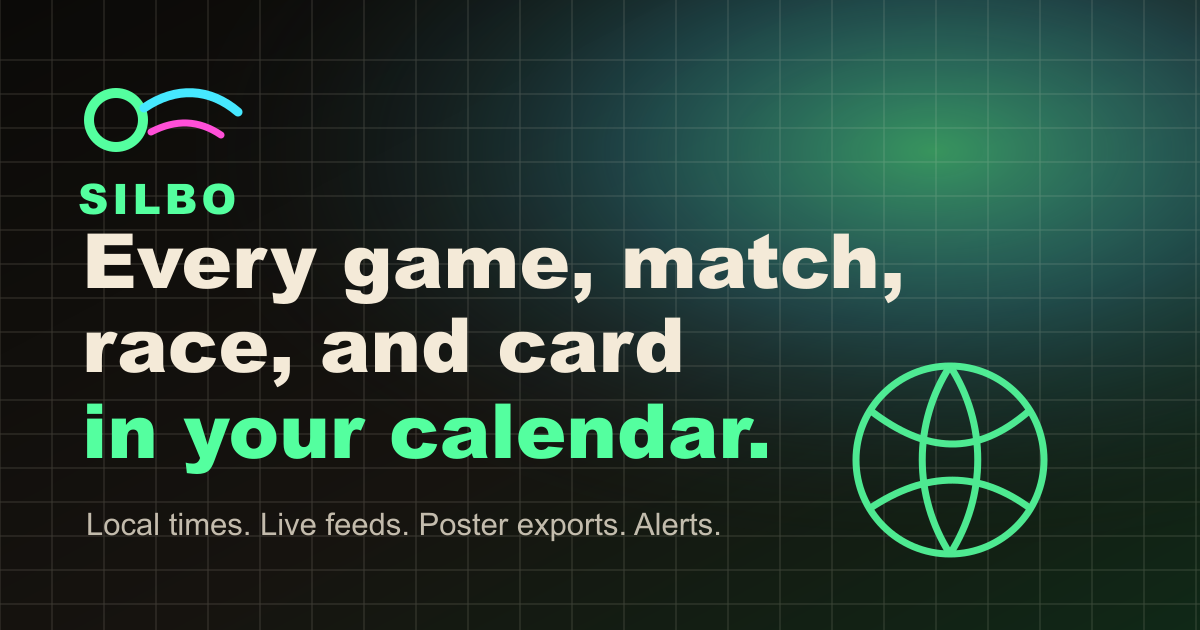
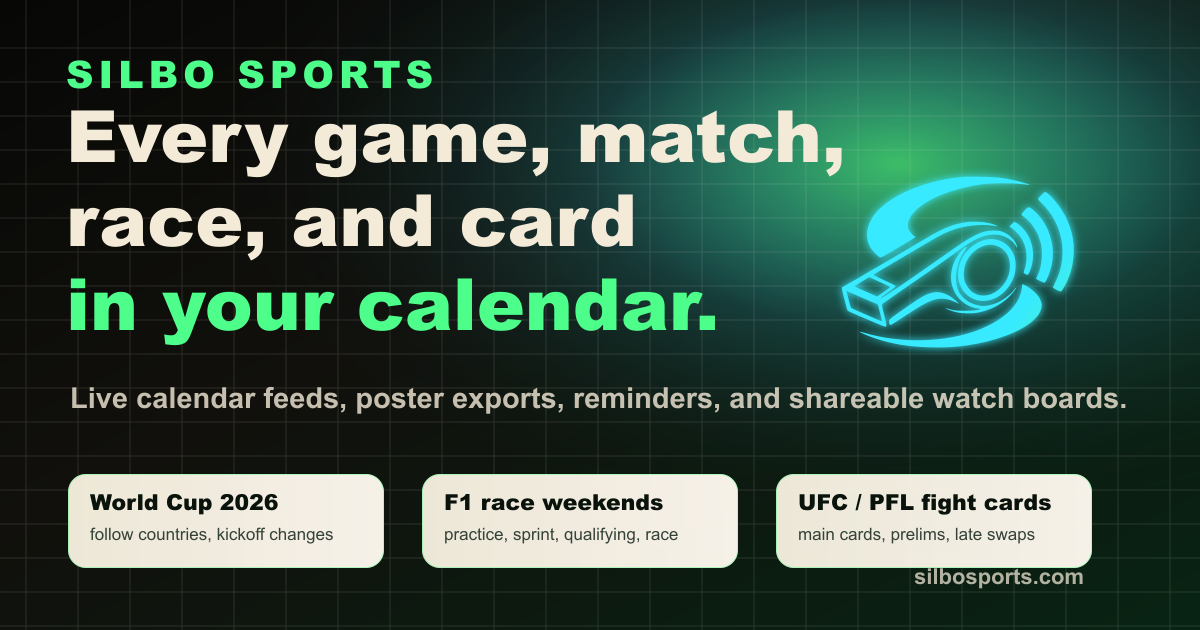
Add Silbo social assets and competitive strategy overlay

diff --git a/index.html b/index.html
@@ -3,9 +3,10 @@
   <head>
     <meta charset="UTF-8" />
     <link rel="icon" type="image/svg+xml" href="/favicon.svg" />
+    <link rel="apple-touch-icon" href="/apple-touch-icon.png" />
     <meta name="viewport" content="width=device-width, initial-scale=1.0" />
     <meta name="theme-color" content="#0b0a08" />
-    <title>Silbo Sports — every game, in your calendar</title>
+    <title>Silbo Sports - every game, in your calendar</title>
     <meta
       name="description"
       content="Follow your teams, leagues, drivers, and fighters across every sport. Silbo Sports turns scattered fixtures into one local-time schedule you can sync, export, and share."
@@ -15,19 +16,23 @@
     <meta property="og:type" content="website" />
     <meta property="og:site_name" content="Silbo Sports" />
     <meta property="og:url" content="https://silbosports.com/" />
-    <meta property="og:title" content="Silbo Sports — every game, in your calendar" />
+    <meta property="og:title" content="Silbo Sports - every game, in your calendar" />
     <meta
       property="og:description"
       content="One schedule for every sport you follow. Local times, live calendar feeds, poster exports, and alerts."
     />
     <meta property="og:image" content="https://silbosports.com/og-cover.png" />
+    <meta property="og:image:width" content="1200" />
+    <meta property="og:image:height" content="630" />
+    <meta property="og:image:alt" content="Silbo Sports schedule preview with the neon whistle mark." />
     <meta name="twitter:card" content="summary_large_image" />
-    <meta name="twitter:title" content="Silbo Sports — every game, in your calendar" />
+    <meta name="twitter:title" content="Silbo Sports - every game, in your calendar" />
     <meta
       name="twitter:description"
       content="One schedule for every sport you follow. Local times, live calendar feeds, poster exports, and alerts."
     />
     <meta name="twitter:image" content="https://silbosports.com/og-cover.png" />
+    <meta name="twitter:image:alt" content="Silbo Sports schedule preview with the neon whistle mark." />
     <!-- Structured data: brand + site search. Per-page SportsEvent JSON-LD is injected at
          runtime on event pages (see src/lib/seo.ts). -->
     <script type="application/ld+json">

diff --git a/docs/master-plan-4-backend-and-glue.md b/docs/master-plan-4-backend-and-glue.md
@@ -360,3 +360,158 @@ Schedule should be the post-selection home base: review saved matches, choose ca
 download static files, print/share, and manage reminders/settings from one surface.
 
 Later, make the schedule hub smarter with DB-backed saved schedule summaries and reminder state.
+
+---
+
+## 11. Competitive Strategy Overlay (June 19, 2026)
+
+Reviewed source pack:
+
+- `Silbo_Competitive_Product_Technology_Strategy_2026.docx` / `.pdf`
+- `Silbo_Competitive_Strategy_Decision_Workbook_2026.xlsx`
+- `Silbo_Competitive_Analysis_Data.json`
+- `Silbo_Competitive_Strategy_README.txt`
+
+Strategic answer in one sentence: **do not compete as another fixed directory of team calendar
+feeds; win as the neutral sports schedule compiler.** Silbo should let a fan, family, organizer,
+publisher, or small rights holder express the living sports schedule they actually need, then sync,
+export, print, share, embed, or alert on it without betting, fantasy, or stats-app clutter.
+
+### 11.1 Competitive Position
+
+The reviewed market splits into five businesses:
+
+1. **Calendar-feed catalogues** (`Sync2Cal`, `SportsCal`, `Fixtur.es`): win with search, breadth,
+   one-tap subscription, and trust that events stay updated.
+2. **Static export utilities** (`Your Sports Calendar`, `Matchesio`, open ICS repos): win with no
+   login, CSV/PDF/ICS, dashboard/print use, and immediate file delivery.
+3. **League/tournament schedulers** (`LeagueLobster`, AI schedulers): win with deterministic
+   pairing/venue constraints and organizer switching costs.
+4. **Team/club operating systems** (`TeamSnap`, `SportsEngine`, `LeagueApps`): win through
+   organization-mandated adoption, registration, payments, roster, chat, and RSVP bundles.
+5. **Calendar-marketing infrastructure** (`ECAL`, `AddEvent`, `Teamup`): win with branded sync
+   channels, analytics, localization, APIs, enterprise reliability, and permissions.
+
+Silbo's wedge is the intersection none of them fully owns: professional + local/custom schedules,
+multi-sport follows, live feeds, static exports, uncertainty-aware event modeling, multilingual UI,
+and future schedule rules/recipes from one normalized event model.
+
+### 11.2 Immediate Foundation Gates
+
+Treat these as release gates before scaling acquisition:
+
+- **Feed correctness and first-party delivery:** fix placeholder/TBD feed semantics for truly null
+  `starts_at`, implement `include_broadcasts`, proxy calendar URLs through
+  `https://silbosports.com/cal/...`, and set one canonical `APP_URL` everywhere.
+- **Feed health and key management:** store last successful feed access, provider freshness,
+  generation status, stale warnings, revoke/rotate controls, and a client-specific polling
+  expectation note. Keep raw feed tokens unrecoverable.
+- **Product analytics:** instrument anonymous and signed-in funnels before paid acquisition:
+  first follow, first preview, first export, feed creation, feed activation, alert opt-in,
+  collection creation, import success/failure, and week-4 retained scheduler.
+- **Provider independence:** keep TheSportsDB as low-cost breadth/artwork/fallback, but introduce a
+  provider adapter + field-level provenance layer and a second provider shadow scorecard before
+  promising premium coverage.
+- **Rights and allowed-use registry:** track which providers/leagues allow public pages, feeds,
+  exports, embeds, screenshots, affiliate links, and API redistribution.
+- **Architecture/documentation hygiene:** archive superseded naming/status docs and generate status
+  docs from source where possible so product claims do not drift.
+
+### 11.3 Product Objectives Added By The Competitive Review
+
+Highest-leverage objectives to merge into the existing backlog:
+
+- **No-account live preview + quick export:** show enough value before signup, then convert after a
+  useful export/feed exists.
+- **Named Silbo Collections:** turn raw follows into saved collections like "Canada + Brazil World
+  Cup nights", "F1 weekends", or "family hockey + Leafs". Collections should power feeds, alerts,
+  exports, share links, and future rules.
+- **One export schema, many formats:** add CSV, JSON, XLSX, true PDF/print, and saved export
+  recipes beside ICS, PNG, and Notes. Export recipes should remember fields, language, layout,
+  accessibility/quiet mode, and branding.
+- **Schedule compiler rules:** build toward union/intersection/exclusion rules, time windows,
+  round/session filters, "only finals", "no events after 11pm", and "winner of this slot" logic.
+- **Change intelligence:** alert on meaningful diffs, not just raw updates: time moved, venue
+  changed, opponent resolved, broadcast added/removed, status postponed/cancelled, or confidence
+  changed.
+- **Import workflows:** ICS/CSV first, then assisted image/PDF extraction. Always include mapping,
+  preview, validation, and reversible commits.
+- **Custom league normalization:** keep the local-first ease, but normalize active custom teams,
+  events, roles, audit history, constraints, generators, and publish state instead of depending on
+  JSON payloads for long-lived operational data.
+- **Direct calendar connectors:** after feed reliability, offer optional least-privilege Google and
+  Outlook calendar creation while keeping portable ICS as the universal fallback.
+- **Embeds / white-label publish widgets:** after rights controls, pilot a small "Silbo Sync" widget
+  for clubs, publishers, and community organizers.
+- **Public request + correction queue:** turn missing coverage and corrections into demand signals,
+  with evidence links, review status, and accountability.
+
+### 11.4 Data And Hydration Implications
+
+The competitive review changes the data plan from "more leagues" to **measured source quality**:
+
+- Add field-level provenance for important event fields (`starts_at`, venue, competitors, status,
+  broadcast, round/session, artwork): source provider, source id, last checked, confidence,
+  allowed-use class, and discrepancy state.
+- Keep `events.source_confidence` for simple display, but add a lower-level provenance/discrepancy
+  table before the second provider becomes authoritative.
+- Use **API-Sports** as the most likely second-provider shadow candidate across high-demand sports;
+  use **Sportmonks** selectively for premium football depth; reserve **Sportradar** for future
+  official/enterprise coverage when revenue justifies procurement.
+- Backfill `broadcasts`/watch links regionally before leaning on affiliate revenue. The useful unit
+  is "viewer in region X with service Y", not a generic TV string.
+- Add data quality SLOs and a public/internal coverage status view: freshness, stale minutes,
+  target failures, confidence distribution, correction turnaround, and provider disagreement rate.
+- Continue the World Cup dedupe objective: retire or bridge the `worldcup_json` planner path so
+  2026 soccer runs from the same DB-backed/provider-provenance model as the rest of Silbo.
+
+### 11.5 Monetization Direction
+
+Principle: charge for ongoing coordination, reliability, and workflow depth; keep basic fixture
+access portable and useful.
+
+- **Free:** browse, basic follows, one live feed, limited collections, basic ICS/PNG/text, ten-event
+  preview, and small community-league limits.
+- **Silbo Plus:** test US$24-36/year for unlimited collections/feeds, CSV/JSON/XLSX/PDF, advanced
+  rules, change intelligence, watch preferences, visual packs, and priority requests.
+- **Silbo Family:** test US$48-60/year for household profiles, shared schedules, travel buffers,
+  conflict rules, and quiet/accessibility profiles.
+- **Silbo Organizer:** test US$9-29/month or event-volume pricing for imports, generators, roles,
+  RSVP, public pages, embeds, custom branding/domain, and operational alerts.
+- **Silbo Publish/API:** test US$99-599+/month for white-label sync selectors, API/webhooks,
+  analytics, localization, official badges, SLA, and multi-admin publishing.
+
+Avoid dense display ads in the schedule flow, betting affiliate dependence, per-team consumer
+pricing, opaque small-club quotes, and locking users out of static/historical exports after
+cancellation.
+
+### 11.6 Twelve-Month Roadmap Overlay
+
+- **0-30 days:** feed semantics, first-party feed URL, token/key controls, analytics, rights
+  registry, architecture docs.
+- **31-90 days:** provider adapter, second-provider shadow scorecard, no-account preview,
+  CSV/JSON/XLSX/PDF, named Collections, correction/request queue, visible confidence, web push,
+  data SLOs.
+- **60-180 days:** saved compiler rules, optional Google/Outlook connectors, regional watch data,
+  SEO discovery pages as product surfaces, change-diff alerts, imports, roles, entity
+  localization/transliteration, uncertainty everywhere, accessible/quiet exports, subscription
+  billing.
+- **90-240 days:** deterministic grassroots schedule generator, assisted image/PDF import,
+  conversational setup wrapper around the solver, RSVP/availability, embeds/white-label pilot,
+  Organizer pricing.
+- **180-365 days:** public API/webhooks, household plan, Silbo Travel prototype, saved visual packs
+  and template marketplace.
+
+### 11.7 KPI Set
+
+Track success by product behavior, not only traffic:
+
+- Activation: visitor -> first follow/preview/export/feed; no-account preview -> account conversion.
+- Reliability: feed-option test pass rate, stale-event rate, feed fetch success, provider freshness,
+  token rotations without support, correction turnaround.
+- Retention: week-4 retained schedulers, collections per activated user, feeds per active user,
+  alert open/action rate, export recipe reuse.
+- Coverage: priority-league completeness, provider disagreement rate, confidence distribution,
+  request-driven coverage closed.
+- Monetization: paid conversion, ARPU, churn, Organizer publish conversion, B2B MRR, affiliate
+  click-through with complaint rate guardrails.